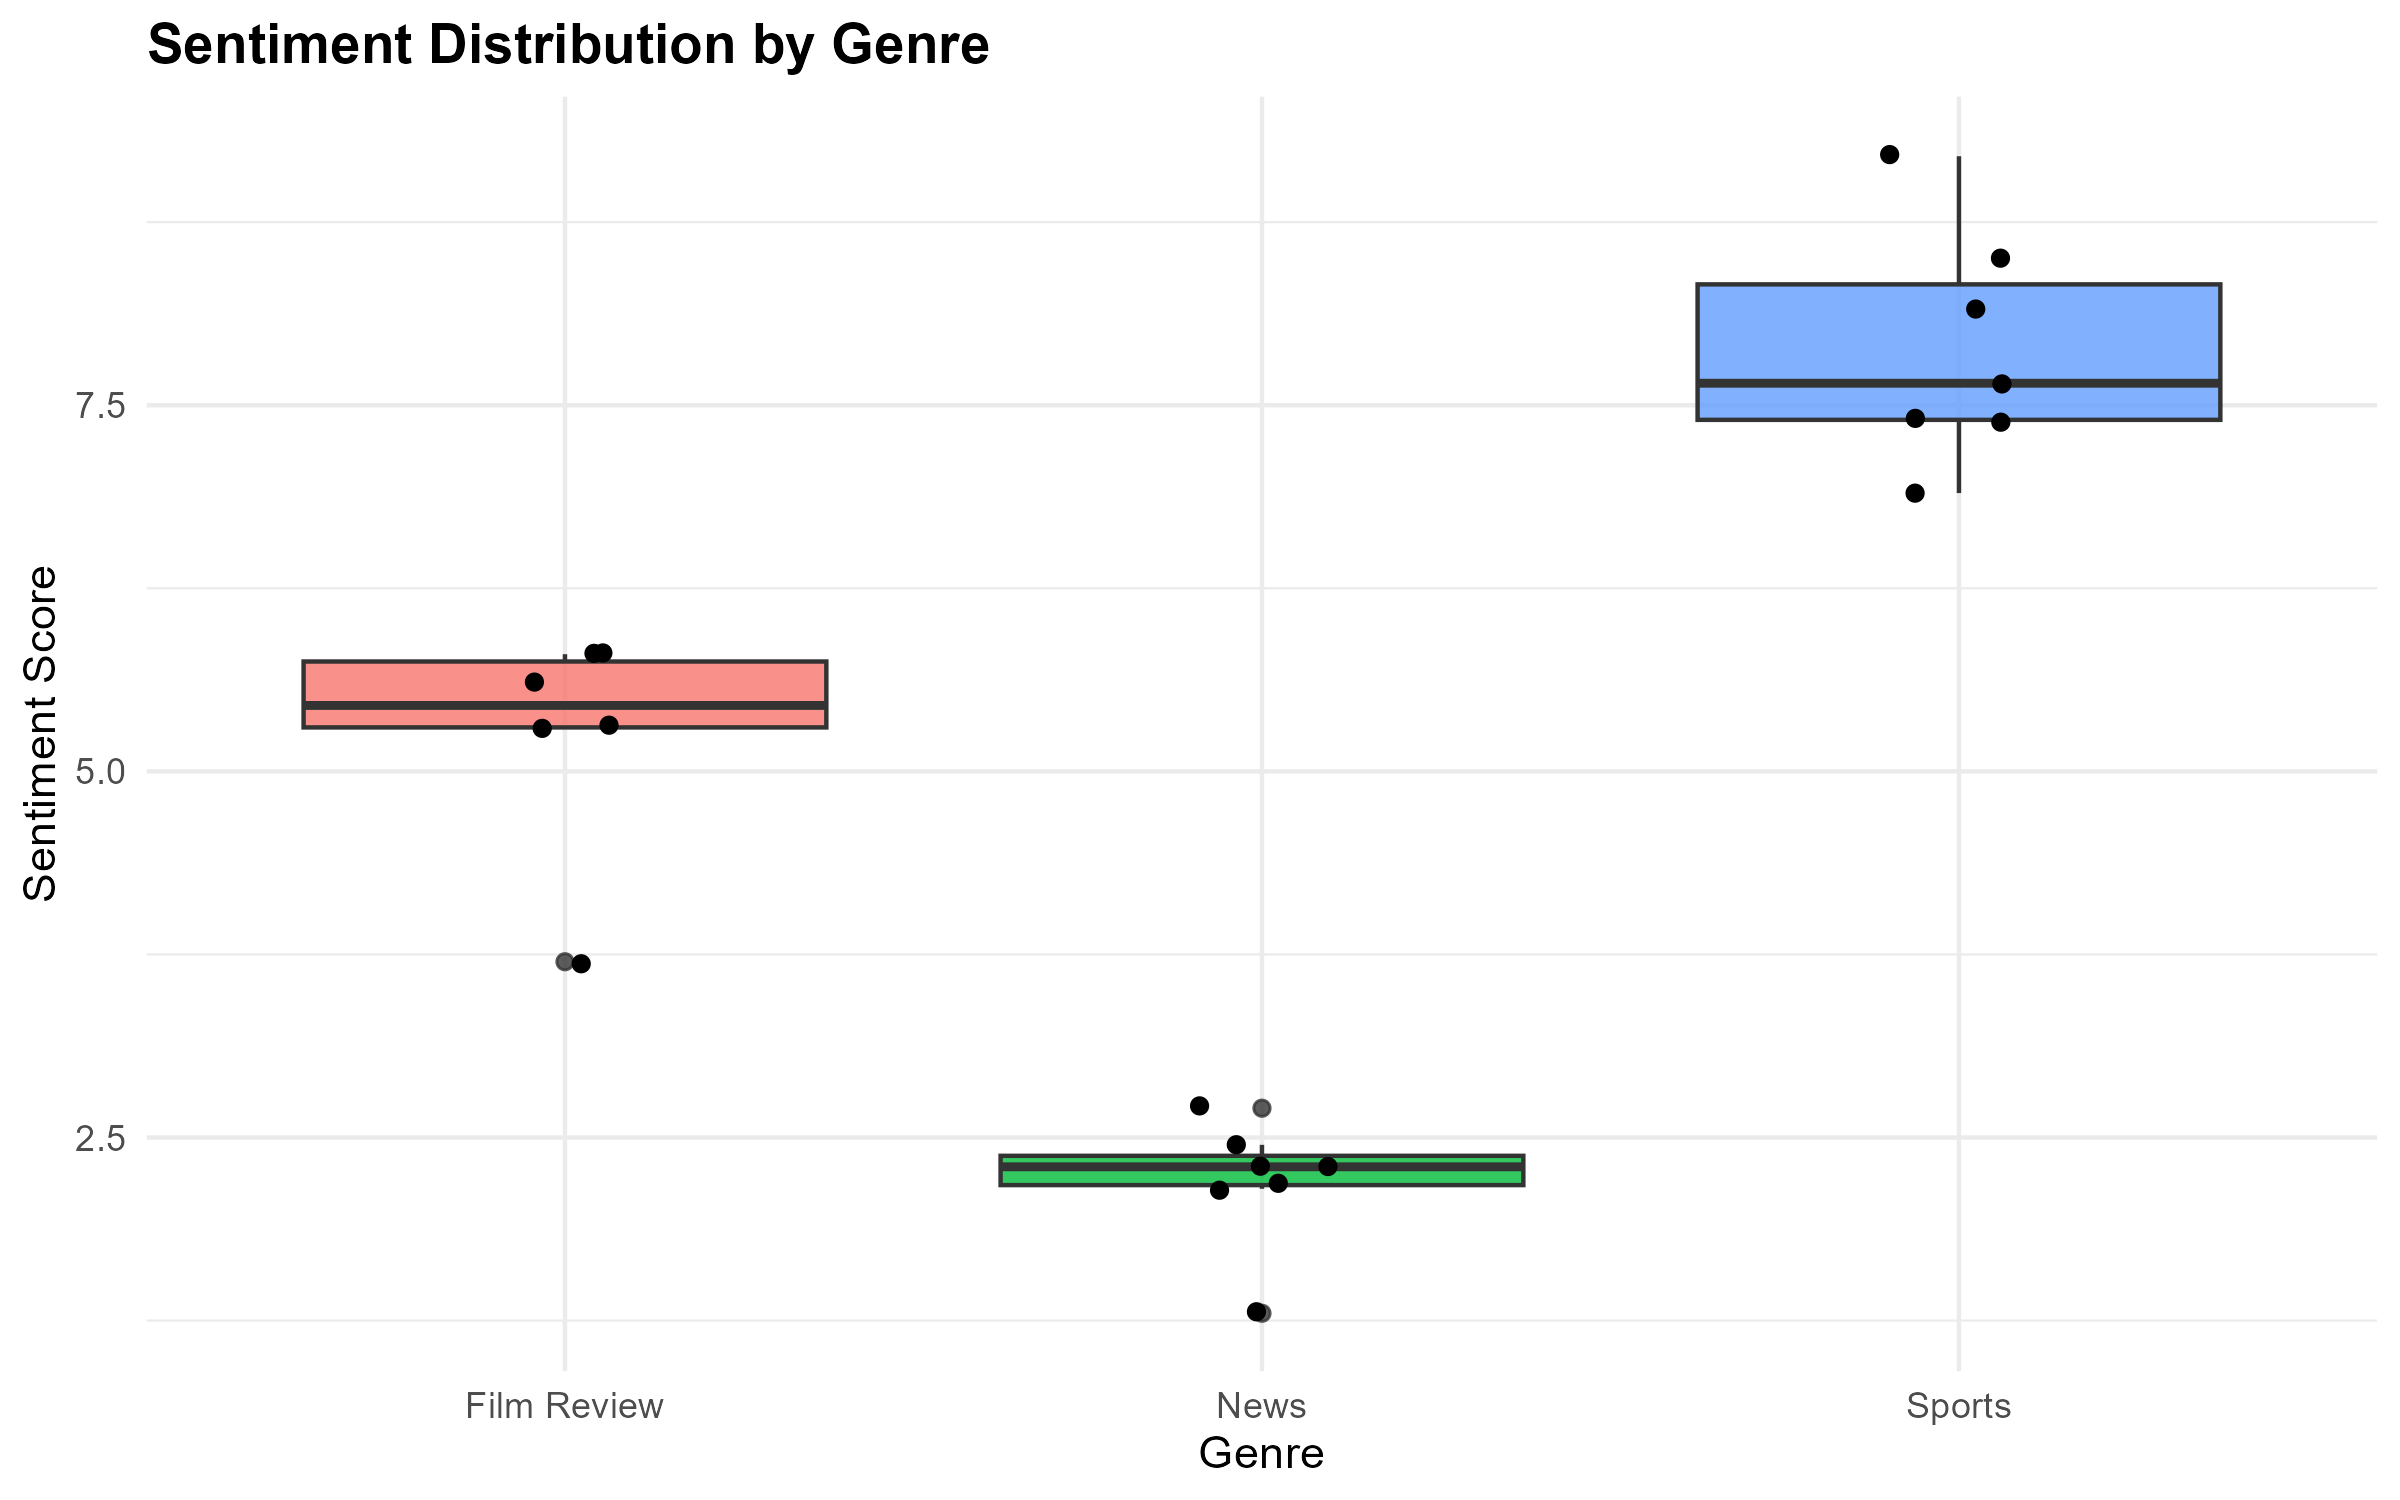
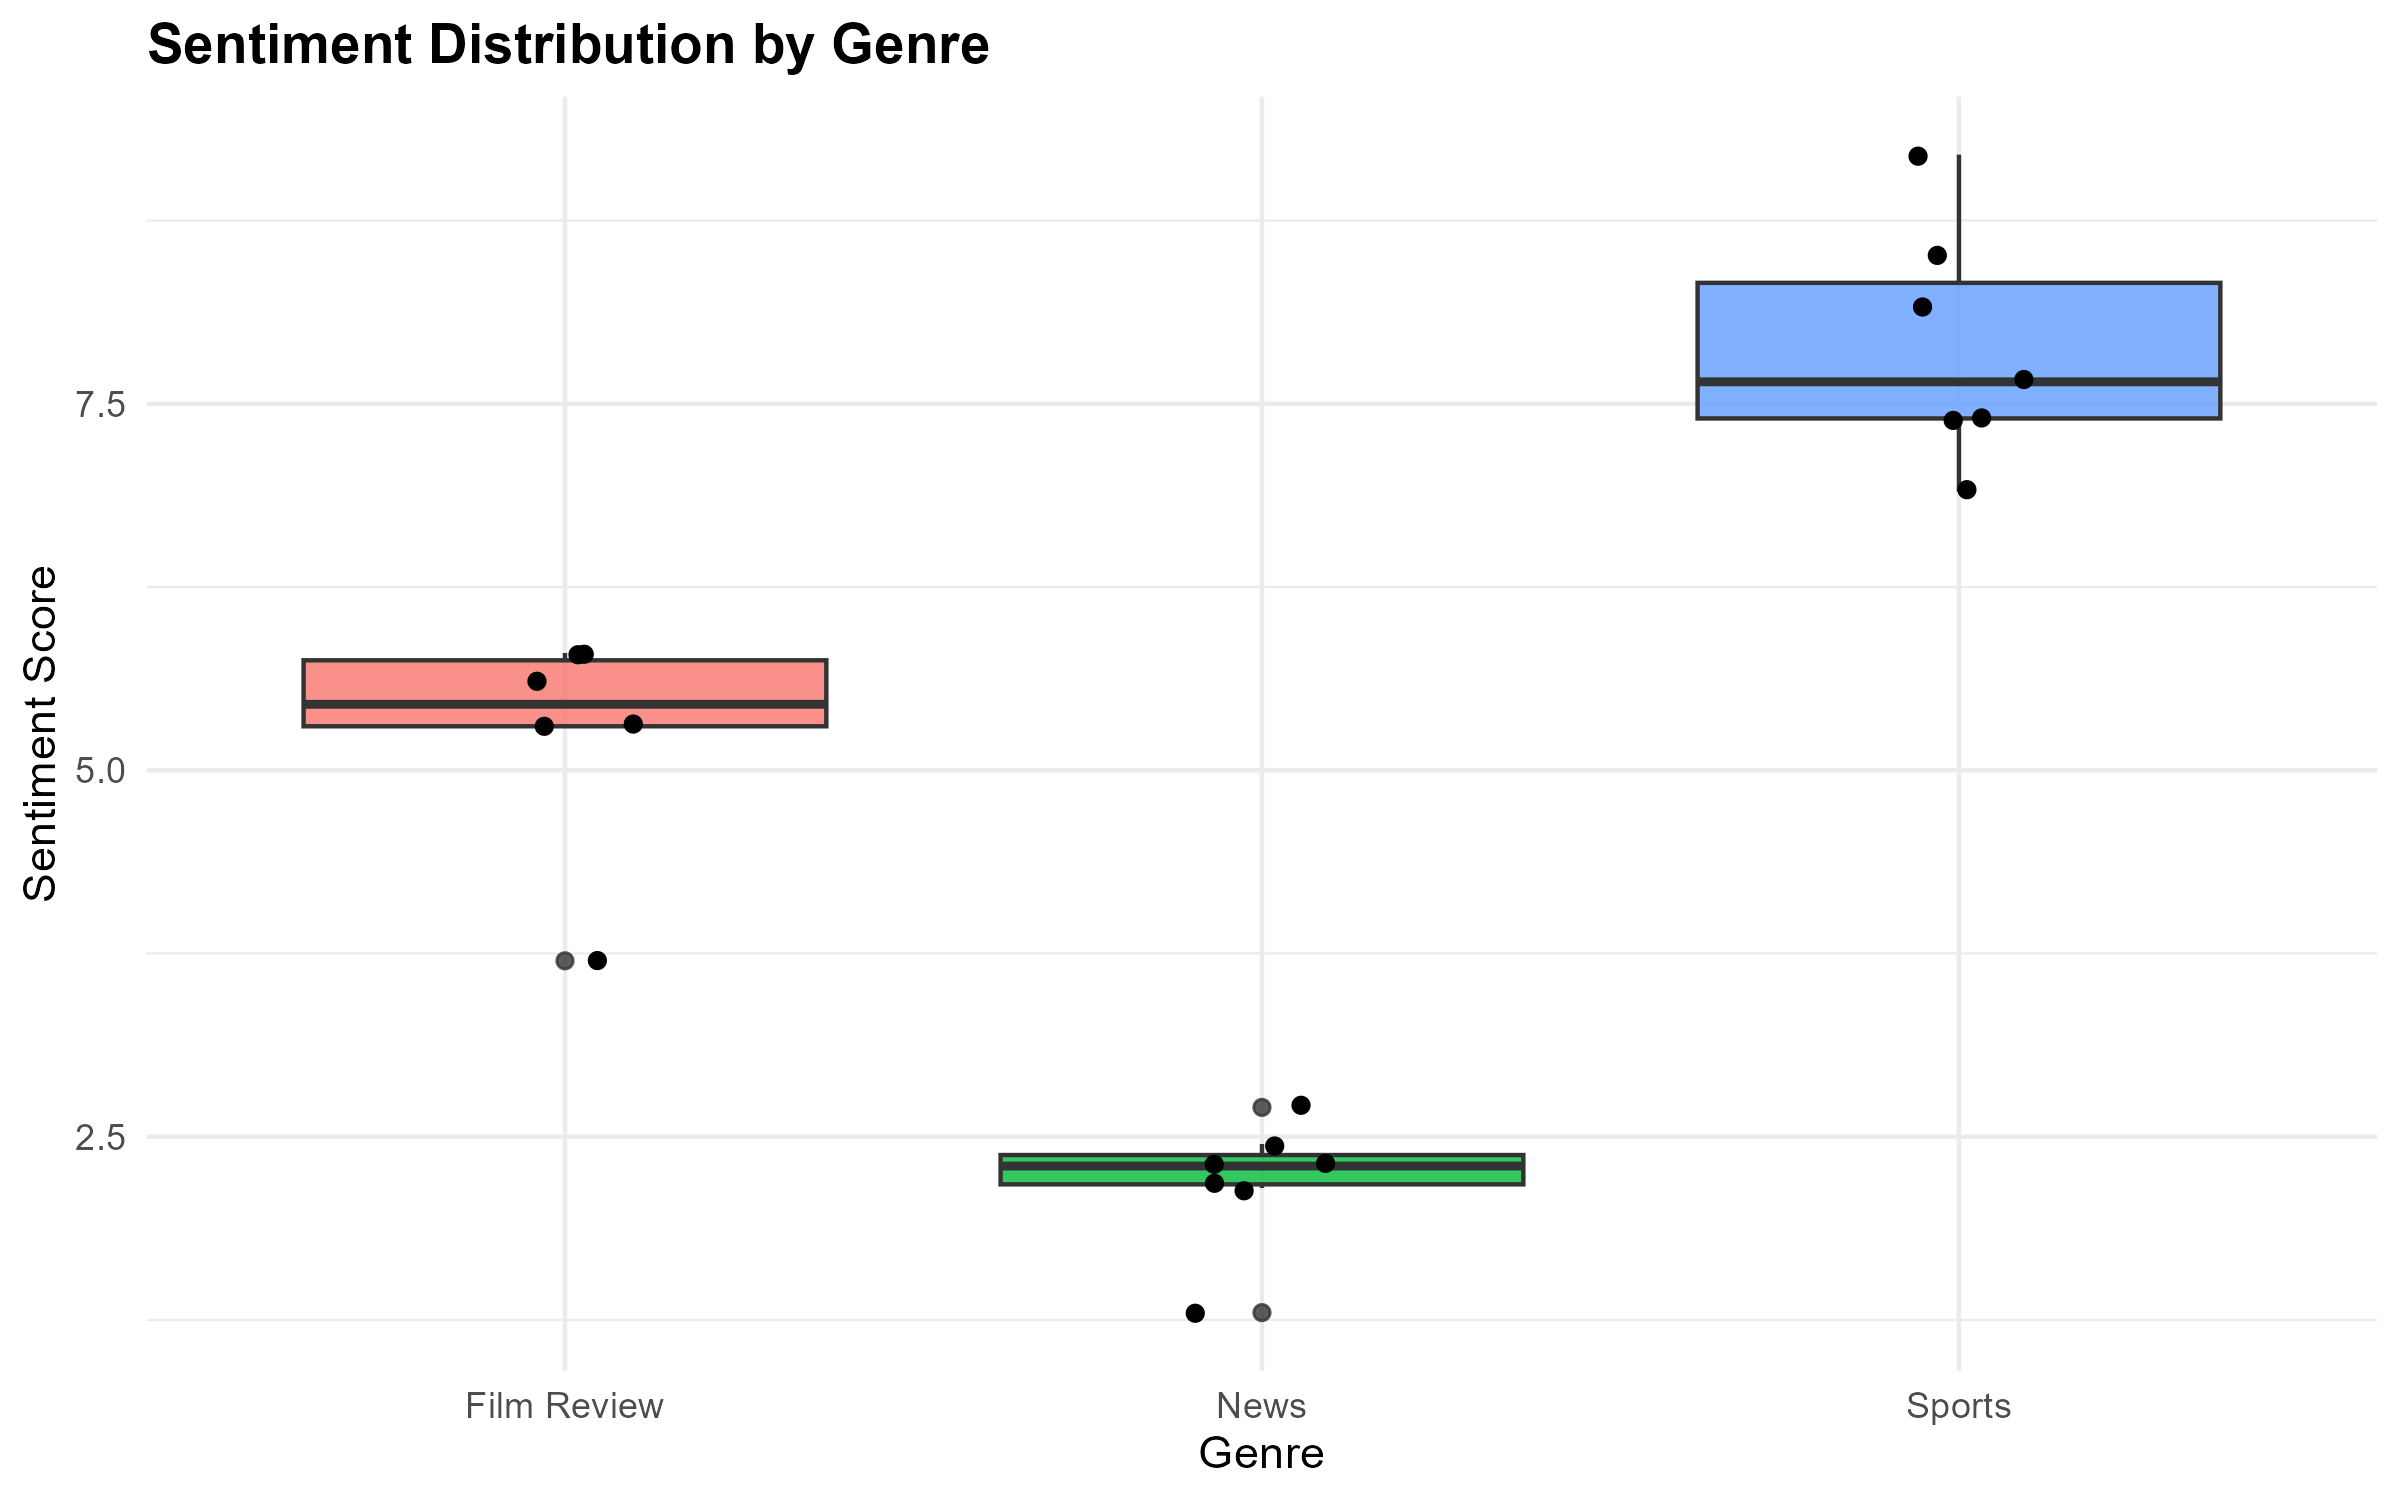
updated

diff --git a/report/style.css b/report/style.css
@@ -1,0 +1,76 @@
+body {
+  font-family: "Arial", sans-serif;
+  font-size: 15px;
+  line-height: 1.55;
+  color: #111;
+  max-width: 980px;
+  margin: auto;
+}
+
+h1 {
+  font-size: 28px;
+  font-weight: 800;
+  text-transform: uppercase;
+  border-bottom: 3px solid #111;
+  padding-bottom: 6px;
+  margin-top: 34px;
+}
+
+h2 {
+  font-size: 22px;
+  font-weight: 750;
+  margin-top: 28px;
+}
+
+h3 {
+  font-size: 18px;
+  font-style: italic;
+  margin-top: 20px;
+}
+
+p {
+  text-align: justify;
+}
+
+table {
+  width: 100%;
+  border-collapse: collapse;
+  margin: 14px 0 22px 0;
+  font-size: 14px;
+}
+
+th {
+  background-color: #f2f2f2;
+  font-weight: 700;
+}
+
+th, td {
+  border-bottom: 1px solid #ddd;
+  padding: 7px 9px;
+}
+
+pre {
+  background-color: #f8f8f8;
+  border-left: 4px solid #444;
+  padding: 10px;
+  font-size: 12px;
+  overflow-x: auto;
+}
+
+img {
+  max-width: 100%;
+  display: block;
+  margin: 12px auto;
+}
+
+.caption, .figcaption {
+  font-weight: 600;
+  font-style: italic;
+  text-align: center;
+}
+
+blockquote {
+  border-left: 4px solid #333;
+  padding-left: 12px;
+  color: #333;
+}
